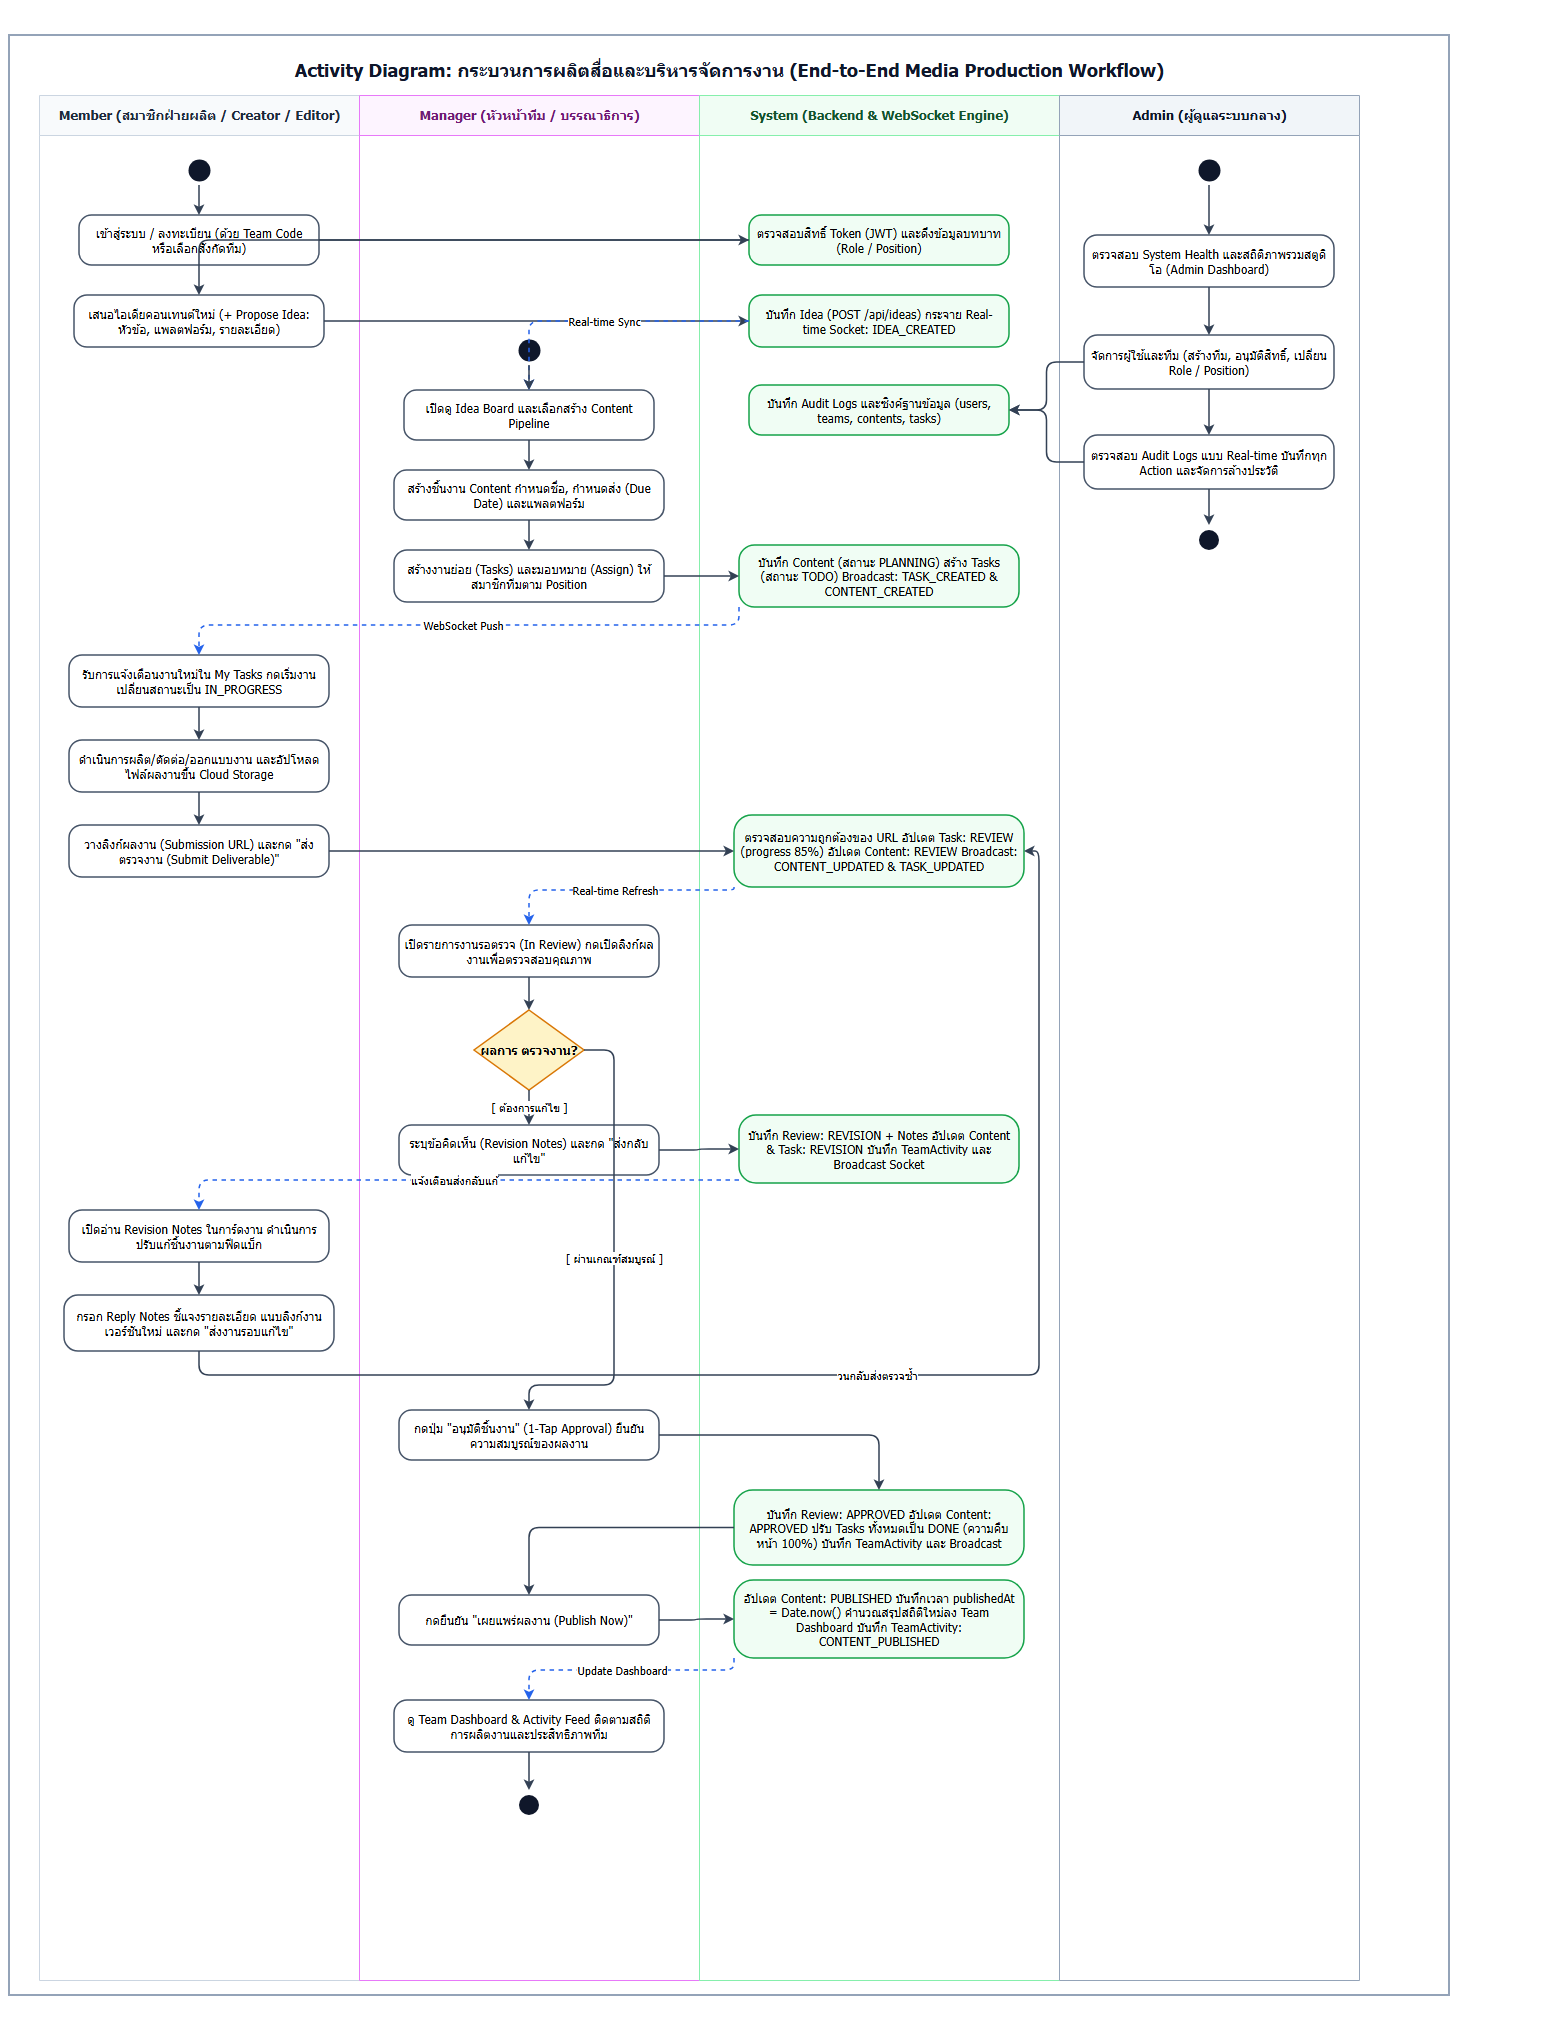
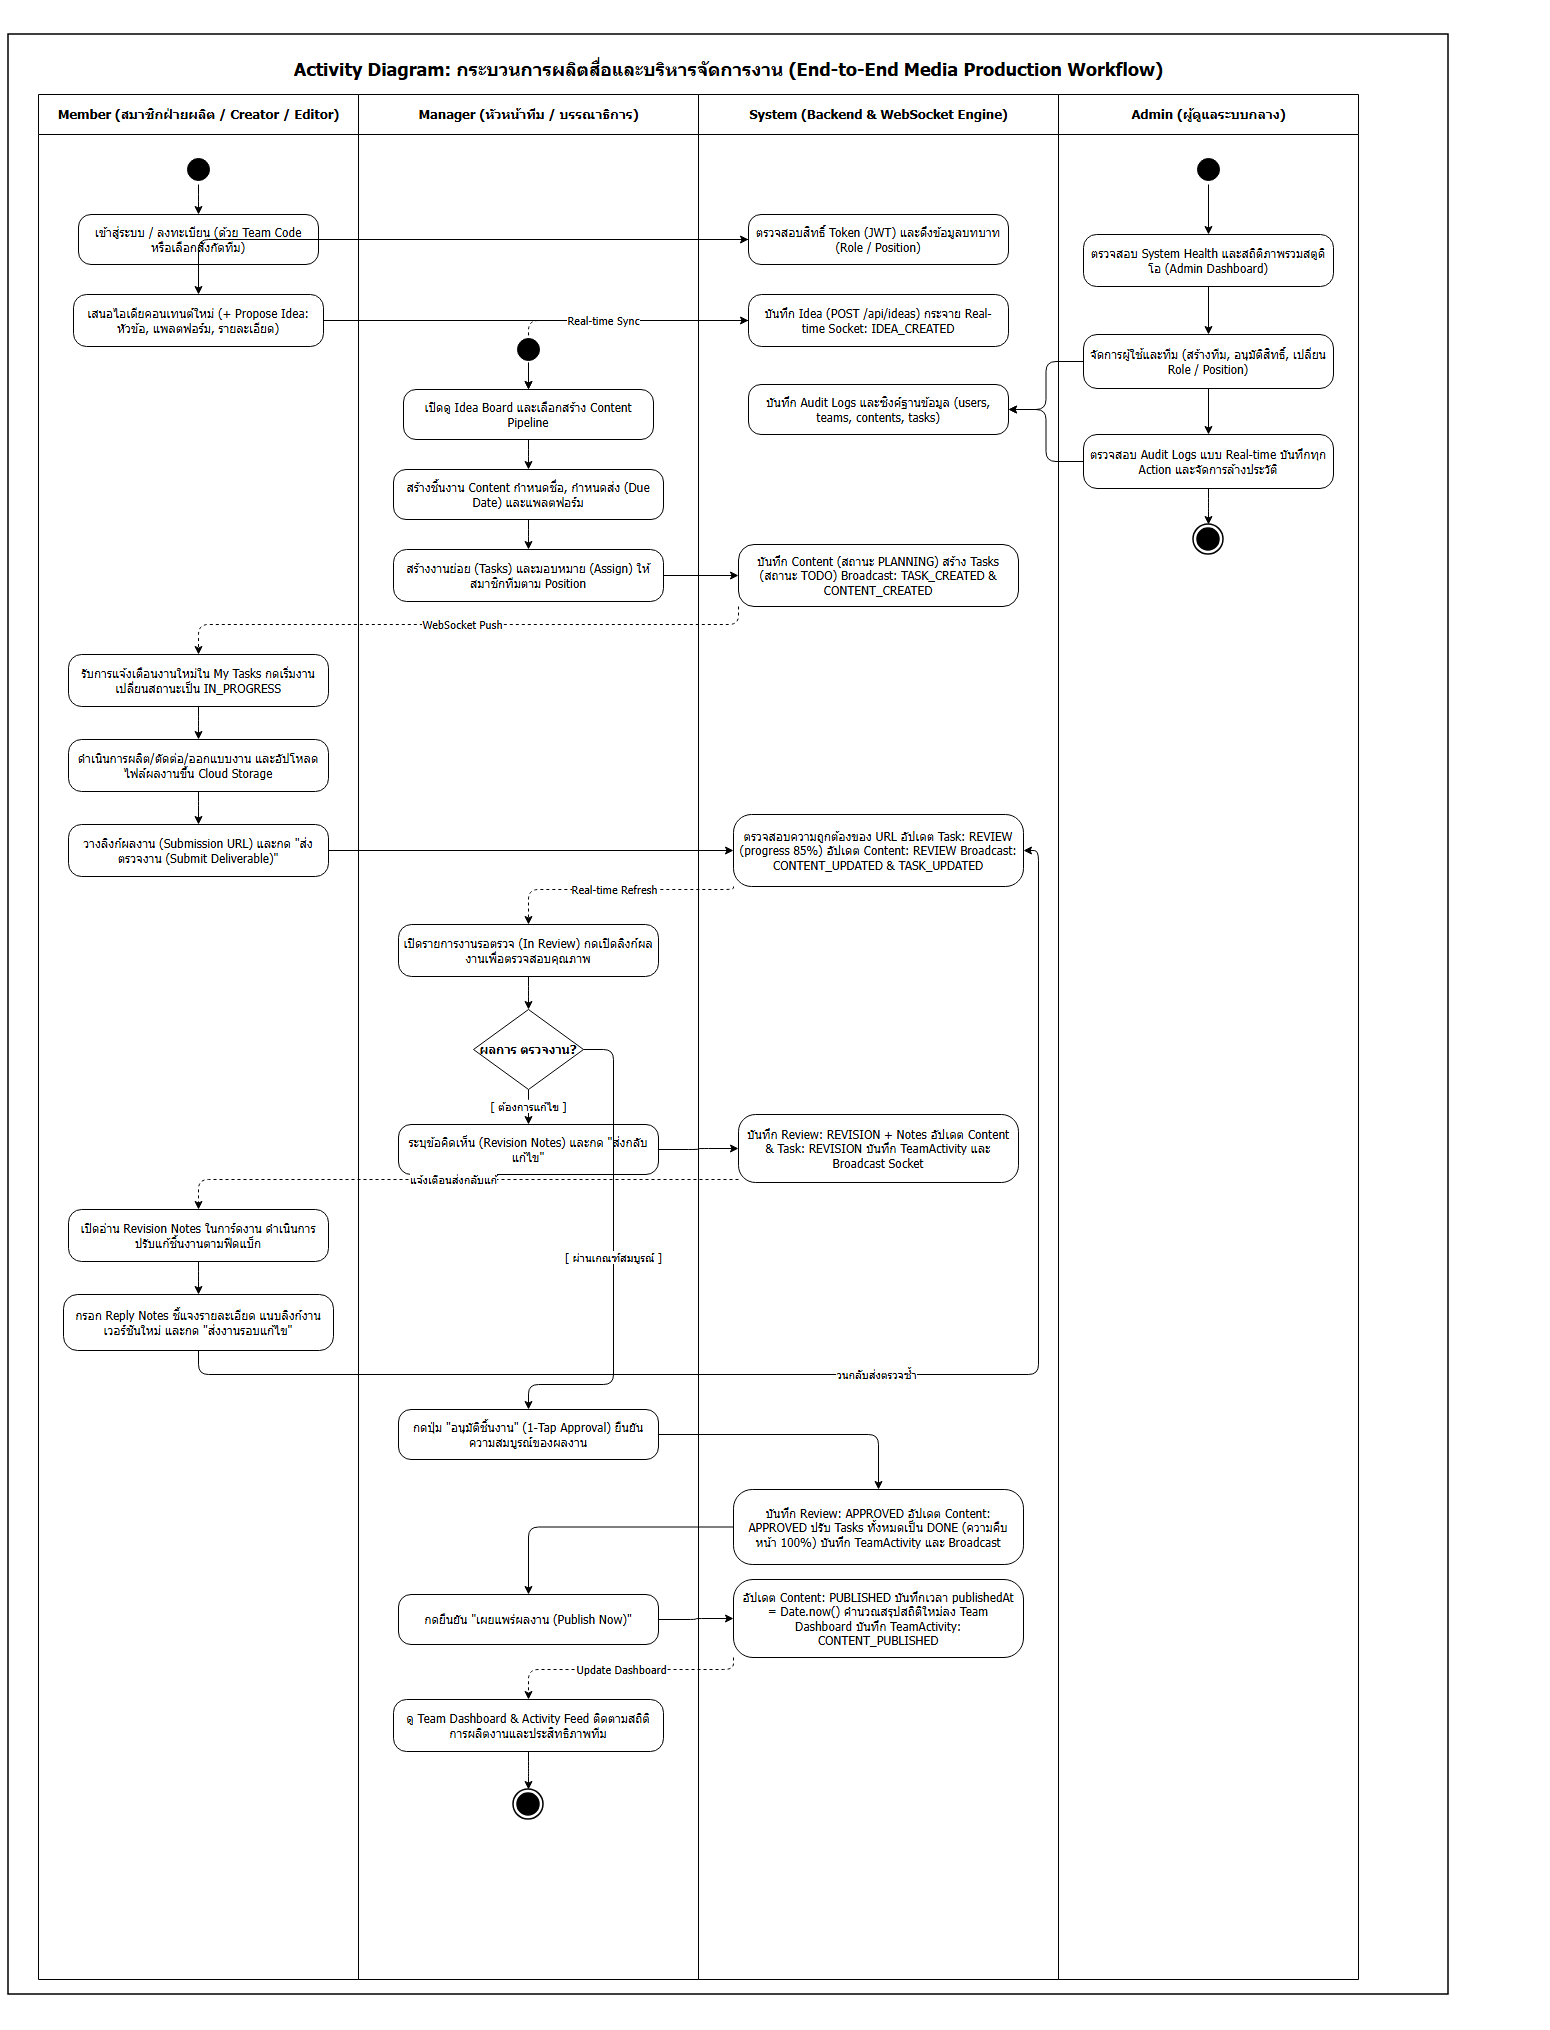
docs: adjust activity diagram color scheme to academic monochrome black and white

diff --git a/docs/PROJECT-DEVELOPMENT-LOG.html b/docs/PROJECT-DEVELOPMENT-LOG.html
@@ -1646,6 +1646,7 @@
             <li><strong>Admin:</strong> ตรวจสอบ System Health &rarr; จัดการผู้ใช้/ทีม (Role/Position) &rarr; มอนิเตอร์และล้าง Audit Logs</li>
           </ul>
         </li>
+        <li><strong>Academic Monochrome Theme:</strong> ปรับโทนสีสู่สไตล์ขาว-ดำล้วน (White Fills, Black Strokes & Text) เพื่อให้ตรงตามมาตรฐานภาพเอกสารวิชาการเดิม 100%</li>
       </ul>
     </section>
 

diff --git a/docs/PROJECT-DEVELOPMENT-LOG.md b/docs/PROJECT-DEVELOPMENT-LOG.md
@@ -1892,3 +1892,5 @@ $$\text{bottomPadding} = \max(\text{insets.bottom},\; \text{isAndroid} \mathbin{
    - **Admin:** ตรวจสอบ System Health $\rightarrow$ บริหารจัดการผู้ใช้และทีม (Role/Position) $\rightarrow$ ตรวจสอบและจัดการ Audit Logs
 3. **การอัปเดตเอกสารวิชาการ:**
    - อัปเดต `docs/academic/03-Activity-Diagram.md` ให้เชื่อมโยงไฟล์ `activity-diagram.drawio` และภาพ `activity-diagram.png`
+4. **การปรับชุดสีสู่สไตล์ Academic Monochrome (ขาว-ดำ มาตรฐานวิชาการ):**
+   - ปรับเส้นขอบเป็นสีดำล้วน (`#000000`), กล่องกิจกรรมและสัญลักษณ์ Decision Diamond เป็นพื้นหลังสีขาว (`#ffffff`) ปราศจากสีพาสเทล เพื่อให้ตรงตามโทนเอกสารวิชาการมาตรฐานเดิมของผู้ใช้ 100%
